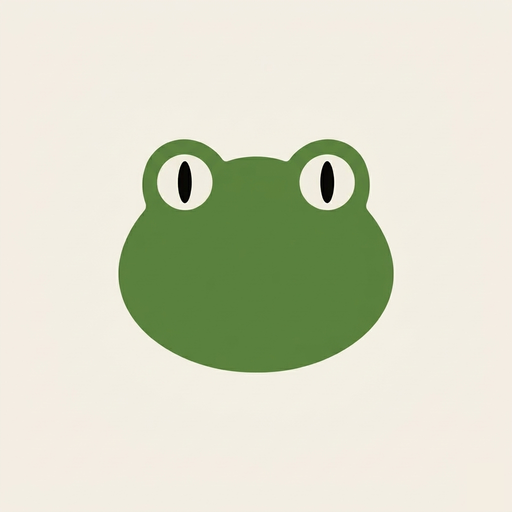
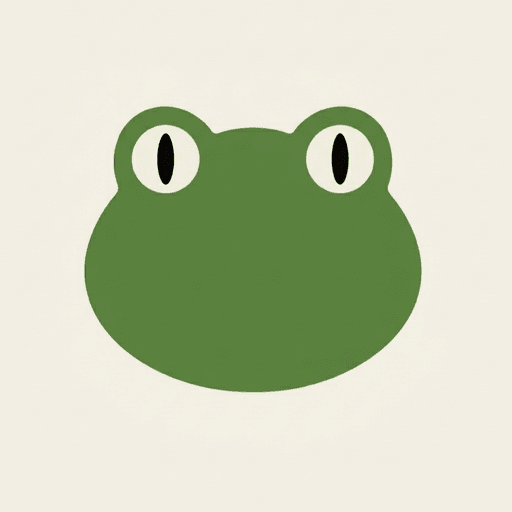
ロゴ画像の最適化・フォント軽量化・エディターUI改善
- logo.png/icon画像を圧縮（461KB→3〜27KB）
- MemoHomeでNext.js Imageコンポーネント+priority使用
- Noto Sans JPフォントを削除（未使用）
- MemoEditorをdynamic importに変更
- 選択モードに全選択コピー機能を追加
- 選択モードのガイドテキストUIを改善

Changed region(s): [[0.1562, 0.1875, 0.8438, 0.7812]]

diff --git a/components/MemoEditor.tsx b/components/MemoEditor.tsx
@@ -200,6 +200,31 @@ export default function MemoEditor({ memo, fontSize, onUpdate, onBack }: Props) 
     }
   }
 
+  const handleSelectAll = async () => {
+    try {
+      await navigator.clipboard.writeText(content)
+      setCopyFeedback(true)
+      setTimeout(() => {
+        setCopyFeedback(false)
+        setMode('edit')
+        resetSelection()
+      }, 800)
+    } catch {
+      const textarea = document.createElement('textarea')
+      textarea.value = content
+      document.body.appendChild(textarea)
+      textarea.select()
+      document.execCommand('copy')
+      document.body.removeChild(textarea)
+      setCopyFeedback(true)
+      setTimeout(() => {
+        setCopyFeedback(false)
+        setMode('edit')
+        resetSelection()
+      }, 800)
+    }
+  }
+
   const isHighlighted = (index: number) => {
     if (startIndex === null || endIndex === null) return false
     return index >= startIndex && index <= endIndex
@@ -381,16 +406,27 @@ export default function MemoEditor({ memo, fontSize, onUpdate, onBack }: Props) 
             </div>
           )}
           {startIndex === null && (
-            <p className="mt-4 text-sm text-[#57873E]/40 flex items-center gap-1.5">
-              <span className="inline-block w-3 h-3 rounded bg-[#3D8B8A]"></span>
-              <span>テキストをタップして開始位置を選択</span>
-            </p>
+            <div className="mt-4 flex items-center gap-2 flex-wrap">
+              <span className="inline-flex items-center gap-1.5 text-sm text-[#3D8B8A]">
+                <span className="inline-block w-2.5 h-2.5 bg-[#3D8B8A]"></span>
+                テキストをタップして開始位置を選択
+              </span>
+              <span className="w-px h-4 bg-[#57873E]/30"></span>
+              <span
+                onClick={handleSelectAll}
+                className="text-sm text-[#57873E] cursor-pointer hover:text-[#57873E]/70 transition-colors"
+              >
+                {copyFeedback ? 'コピー済' : '全選択'}
+              </span>
+            </div>
           )}
           {startIndex !== null && endIndex === null && (
-            <p className="mt-4 text-sm text-[#57873E]/40 flex items-center gap-1.5">
-              <span className="inline-block w-3 h-3 rounded bg-[#C48A4A]"></span>
-              <span>終了位置をタップして範囲を確定</span>
-            </p>
+            <div className="mt-4">
+              <span className="inline-flex items-center gap-1.5 text-sm text-[#C48A4A]">
+                <span className="inline-block w-2.5 h-2.5 bg-[#C48A4A]"></span>
+                終了位置をタップして範囲を確定
+              </span>
+            </div>
           )}
         </div>
       )}

diff --git a/app/layout.tsx b/app/layout.tsx
@@ -1,5 +1,5 @@
 import type { Metadata, Viewport } from "next";
-import { Zen_Maru_Gothic, Noto_Sans_JP } from "next/font/google";
+import { Zen_Maru_Gothic } from "next/font/google";
 import "./globals.css";
 import ServiceWorkerRegister from "@/components/ServiceWorkerRegister";
 
@@ -7,12 +7,6 @@ const zenMaru = Zen_Maru_Gothic({
   weight: ["400", "500", "700"],
   subsets: ["latin"],
   variable: "--font-zen-maru",
-});
-
-const notoSans = Noto_Sans_JP({
-  weight: ["400", "500", "700"],
-  subsets: ["latin"],
-  variable: "--font-noto-sans",
 });
 
 export const viewport: Viewport = {
@@ -32,6 +26,10 @@ export const metadata: Metadata = {
     statusBarStyle: "default",
     title: "メモ",
   },
+  icons: {
+    icon: "/icon.png",
+    apple: "/icon-192.png",
+  },
 };
 
 export default function RootLayout({
@@ -40,7 +38,7 @@ export default function RootLayout({
   children: React.ReactNode;
 }>) {
   return (
-    <html lang="ja" className={`${zenMaru.variable} ${notoSans.variable} h-full`}>
+    <html lang="ja" className={`${zenMaru.variable} h-full`}>
       <body className="h-full font-[family-name:var(--font-zen-maru)]">
         <ServiceWorkerRegister />
         {children}

diff --git a/components/MemoHome.tsx b/components/MemoHome.tsx
@@ -3,6 +3,7 @@
 import { Memo, SortBy } from '@/lib/supabase'
 import MemoItem from './MemoItem'
 import { useState } from 'react'
+import Image from 'next/image'
 
 type Props = {
   memos: Memo[]
@@ -175,7 +176,7 @@ export default function MemoHome({
       {/* Header */}
       <div className="bg-[#F5F0E8] px-4 py-1">
         <div className="flex items-center justify-between">
-          <img src="/logo.png" alt="Logo" className="w-20 h-20 rounded-full" />
+          <Image src="/logo.png" alt="Logo" width={64} height={64} priority className="rounded-full" />
           <div className="flex-1" />
           <div className="flex items-center gap-2">
             {/* タグフィルタ表示 */}

diff --git a/app/page.tsx b/app/page.tsx
@@ -3,7 +3,8 @@
 import { useCallback, useEffect, useRef, useState } from 'react'
 import { supabase, Memo, SortBy } from '@/lib/supabase'
 import MemoHome from '@/components/MemoHome'
-import MemoEditor from '@/components/MemoEditor'
+import dynamic from 'next/dynamic'
+const MemoEditor = dynamic(() => import('@/components/MemoEditor'))
 
 type View = 'home' | 'editor'
 
